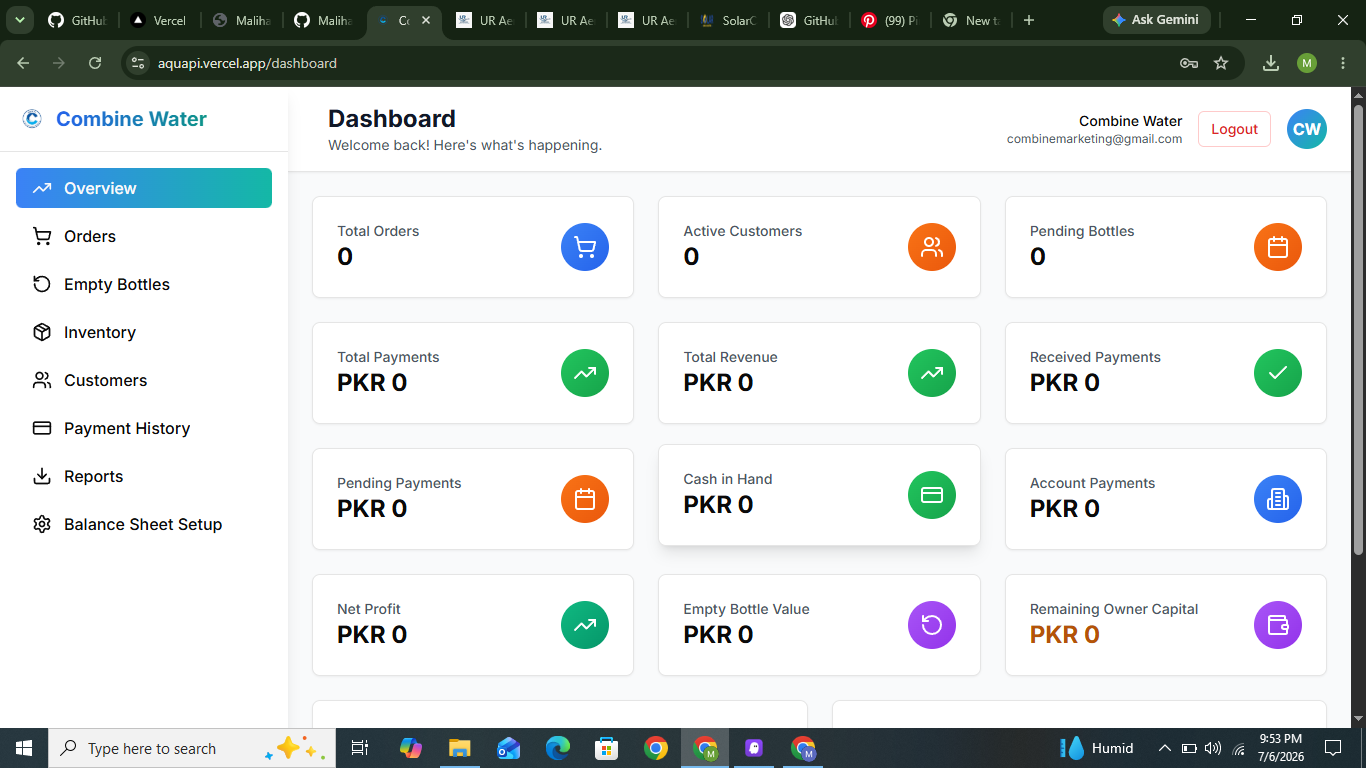
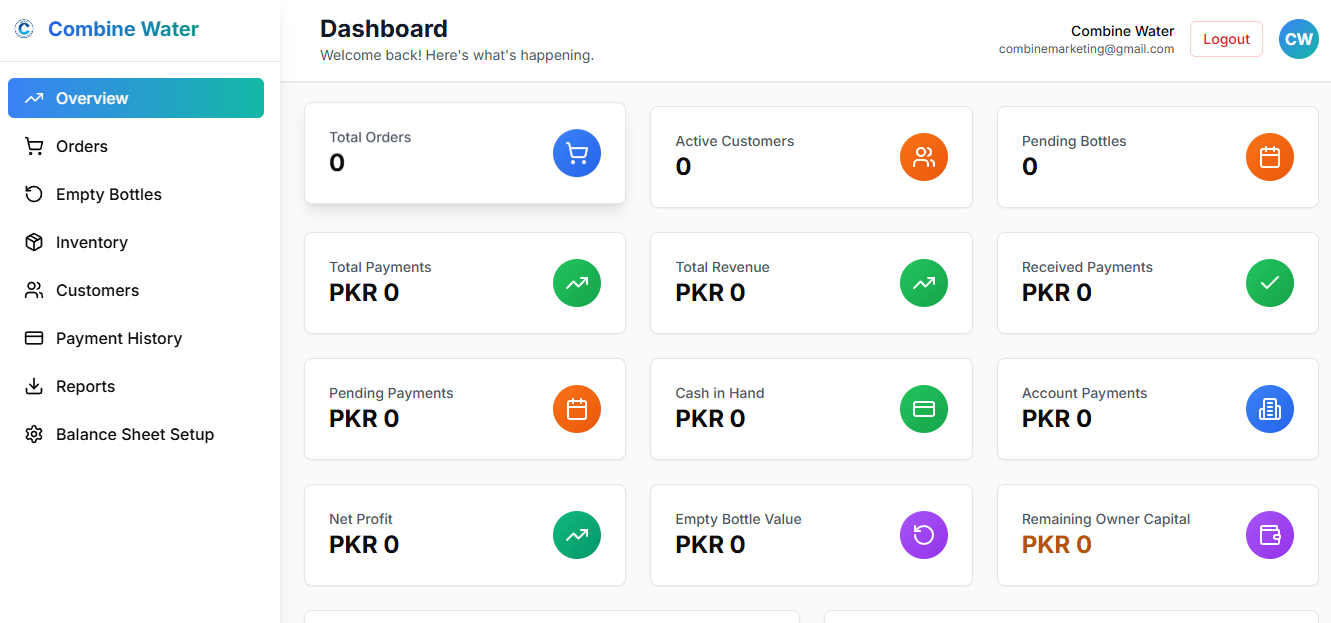
Update Combine Water image path

diff --git a/app/page.tsx b/app/page.tsx
@@ -42,7 +42,7 @@ export default function Page() {
       result: 'Fully functional admin dashboard managing orders, inventory, customers, and finances efficiently.',
       color: '#3b82f6',
       backgroundColor: '#3b82f6',
-      image: '/combinewater.png',
+      image: '/COMBINEWATER.png',
       liveUrl: 'https://aquapi.vercel.app/dashboard',
     },
     {